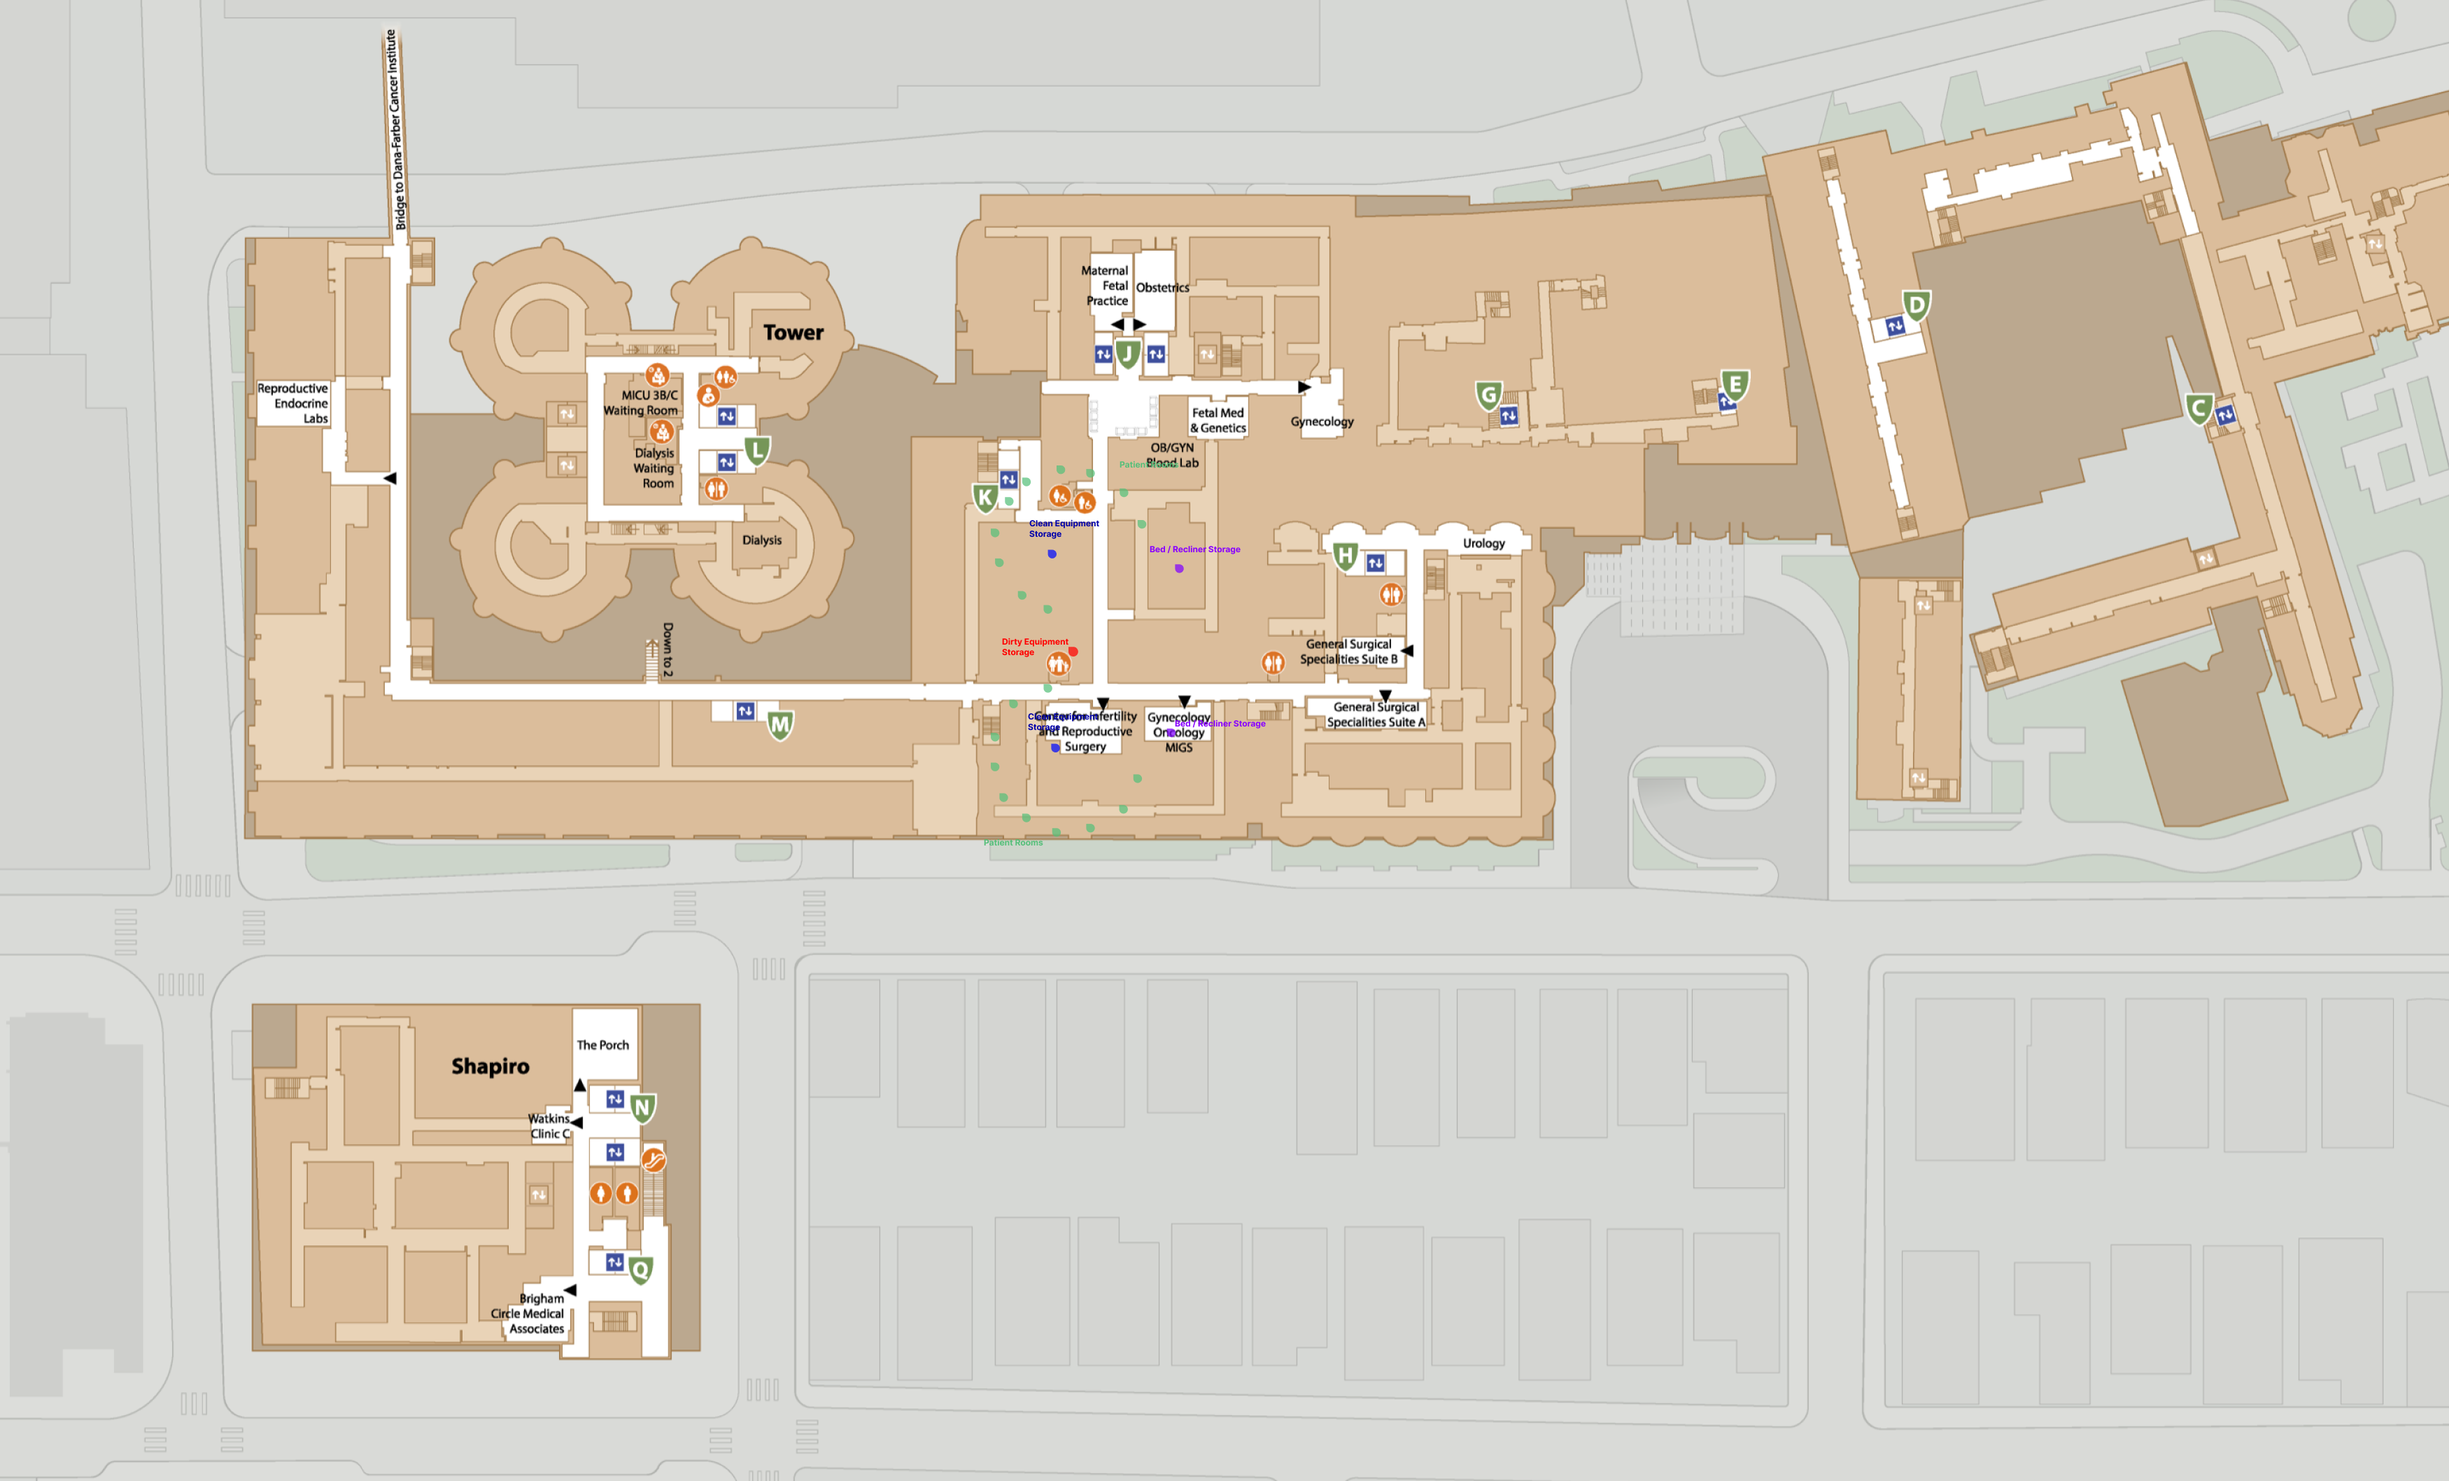
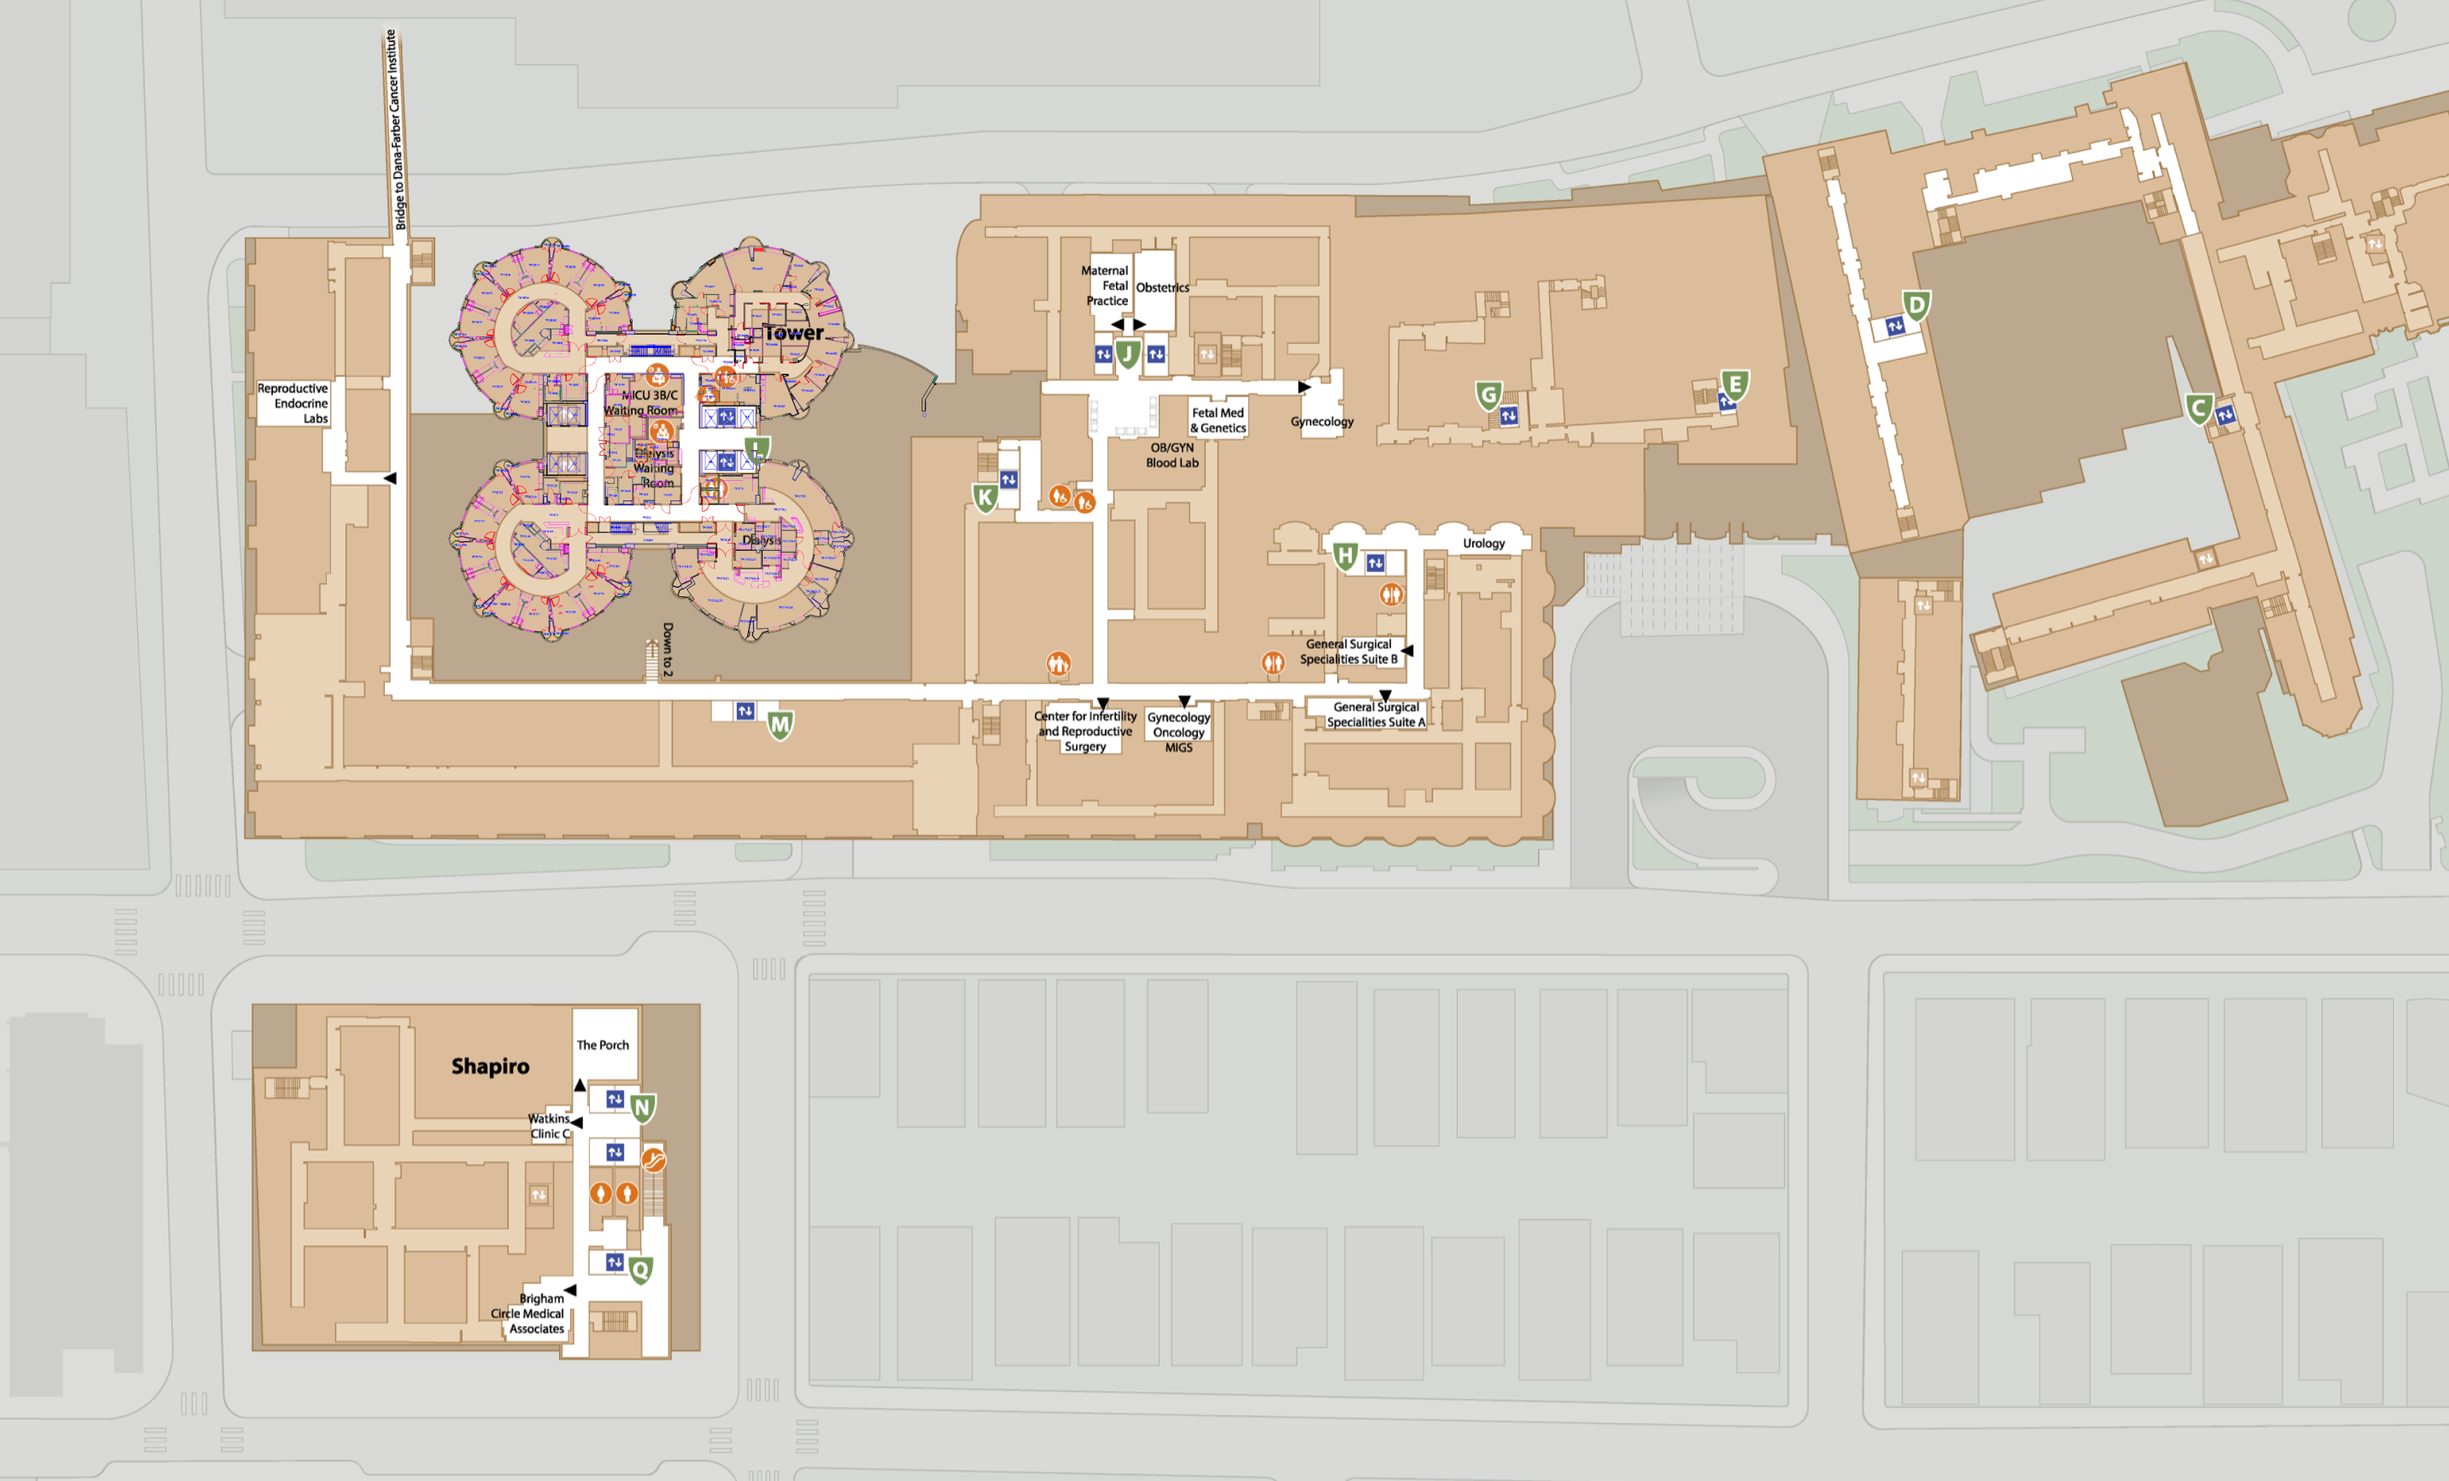
Added floors 4 and 5 with the detail view and made some of the nodes in the CSV for the floors

Changed region(s): [[0.1869, 0.156, 0.3426, 0.4367], [0.4049, 0.4679, 0.436, 0.4991], [0.4049, 0.3431, 0.436, 0.3743]]

diff --git a/src/main/java/edu/wpi/agileAngels/Controllers/MapsController.java b/src/main/java/edu/wpi/agileAngels/Controllers/MapsController.java
@@ -22,6 +22,8 @@ public class MapsController implements Initializable {
   @FXML
   private ImageView floorTwoMap,
       floorThreeMap,
+      floorFourMap,
+      floorFiveMap,
       lowerLevelOneMap,
       lowerLevelTwoMap,
       floorThreeDetailMap;
@@ -30,6 +32,8 @@ public class MapsController implements Initializable {
   @FXML
   private Button floorTwo,
       floorThree,
+      floorFour,
+      floorFive,
       lowerLevelOne,
       lowerLevelTwo,
       editButton,
@@ -53,6 +57,8 @@ public class MapsController implements Initializable {
 
   Pane pane2 = new Pane();
   Pane pane3 = new Pane();
+  Pane pane4 = new Pane();
+  Pane pane5 = new Pane();
   Pane paneL1 = new Pane();
   Pane paneL2 = new Pane();
 
@@ -86,8 +92,13 @@ public class MapsController implements Initializable {
     pane2.setVisible(true);
     mapPane.getChildren().add(pane3);
     pane3.getChildren().add((floorThreeMap));
-    pane3.getChildren().add(floorThreeDetailMap);
     pane3.setVisible(false);
+    mapPane.getChildren().add(pane4);
+    pane4.getChildren().add((floorFourMap));
+    pane4.setVisible(false);
+    mapPane.getChildren().add(pane5);
+    pane5.getChildren().add((floorFiveMap));
+    pane5.setVisible(false);
     mapPane.getChildren().add(paneL1);
     paneL1.getChildren().add((lowerLevelOneMap));
     paneL1.setVisible(false);
@@ -96,6 +107,8 @@ public class MapsController implements Initializable {
     paneL2.setVisible(false);
     floorTwo.setViewOrder(-100);
     floorThree.setViewOrder(-100);
+    floorFour.setViewOrder(-100);
+    floorFive.setViewOrder(-100);
     lowerLevelOne.setViewOrder(-100);
     lowerLevelTwo.setViewOrder(-100);
 
@@ -210,6 +223,10 @@ public class MapsController implements Initializable {
       pane2.getChildren().remove(currentLocationNode.getButton());
     } else if (currentLocationNode.getFloor().equals("3")) {
       pane3.getChildren().remove(currentLocationNode.getButton());
+    } else if (currentLocationNode.getFloor().equals("4")) {
+      pane3.getChildren().remove(currentLocationNode.getButton());
+    } else if (currentLocationNode.getFloor().equals("5")) {
+      pane3.getChildren().remove(currentLocationNode.getButton());
     } else if (currentLocationNode.getFloor().equals("L1")) {
       paneL1.getChildren().remove(currentLocationNode.getButton());
     } else if (currentLocationNode.getFloor().equals("L2")) {
@@ -257,6 +274,10 @@ public class MapsController implements Initializable {
   public void displayLocationNode(LocationNode node) {
     if (node.getFloor().equals("2")) {
       pane2.getChildren().add(node.getButton());
+    } else if (node.getFloor().equals("5")) {
+      pane5.getChildren().add(node.getButton());
+    } else if (node.getFloor().equals("4")) {
+      pane4.getChildren().add(node.getButton());
     } else if (node.getFloor().equals("3")) {
       pane3.getChildren().add(node.getButton());
     } else if (node.getFloor().equals("L1")) {
@@ -274,6 +295,10 @@ public class MapsController implements Initializable {
   public void displayRequestNode(RequestNode node) {
     if (node.getFloor().equals("2")) {
       pane2.getChildren().add(node.getButton());
+    } else if (node.getFloor().equals("5")) {
+      pane5.getChildren().add(node.getButton());
+    } else if (node.getFloor().equals("4")) {
+      pane4.getChildren().add(node.getButton());
     } else if (node.getFloor().equals("3")) {
       pane3.getChildren().add(node.getButton());
     } else if (node.getFloor().equals("L1")) {
@@ -291,6 +316,10 @@ public class MapsController implements Initializable {
   public void displayEquipmentNode(EquipmentNode node) {
     if (node.getFloor().equals("2")) {
       pane2.getChildren().add(node.getButton());
+    } else if (node.getFloor().equals("5")) {
+      pane5.getChildren().add(node.getButton());
+    } else if (node.getFloor().equals("4")) {
+      pane4.getChildren().add(node.getButton());
     } else if (node.getFloor().equals("3")) {
       pane3.getChildren().add(node.getButton());
     } else if (node.getFloor().equals("L1")) {
@@ -308,6 +337,8 @@ public class MapsController implements Initializable {
   public void changeMap(ActionEvent event) {
     pane2.setVisible(false);
     pane3.setVisible(false);
+    pane4.setVisible(false);
+    pane5.setVisible(false);
     paneL1.setVisible(false);
     paneL2.setVisible(false);
     if (event.getSource() == floorTwo) {
@@ -318,6 +349,14 @@ public class MapsController implements Initializable {
       pane3.setVisible(true);
       currentFloor = "3";
       floorLabel.setText("Floor 3");
+    } else if (event.getSource() == floorFour) {
+      pane4.setVisible(true);
+      currentFloor = "4";
+      floorLabel.setText("Floor 4");
+    } else if (event.getSource() == floorFive) {
+      pane5.setVisible(true);
+      currentFloor = "5";
+      floorLabel.setText("Floor 5");
     } else if (event.getSource() == lowerLevelOne) {
       paneL1.setVisible(true);
       currentFloor = "L1";

diff --git a/src/main/java/edu/wpi/agileAngels/Controllers/LocationNodeManager.java b/src/main/java/edu/wpi/agileAngels/Controllers/LocationNodeManager.java
@@ -56,14 +56,14 @@ public class LocationNodeManager {
 
   // gets all locations from the DB and creates nodes from them
   void createNodesFromDB() {
-    HashMap<String, Location> locationsHash = locationDAO.getAllLocations();
-    ArrayList<Location> locationsList = new ArrayList<Location>(locationsHash.values());
-    for (Location location : locationsList) {
-      typeCounts[floorsAndTypes.get(location.getNodeType())][
-              floorsAndTypes.get(location.getFloor())] +=
-          1;
-      mapsController.displayLocationNode(addNode(location));
-    }
+        HashMap<String, Location> locationsHash = locationDAO.getAllLocations();
+        ArrayList<Location> locationsList = new ArrayList<Location>(locationsHash.values());
+        for (Location location : locationsList) {
+          typeCounts[floorsAndTypes.get(location.getNodeType())][
+                  floorsAndTypes.get(location.getFloor())] +=
+              1;
+          mapsController.displayLocationNode(addNode(location));
+        }
   }
 
   Integer getTypeCount(String type, String floor) {
